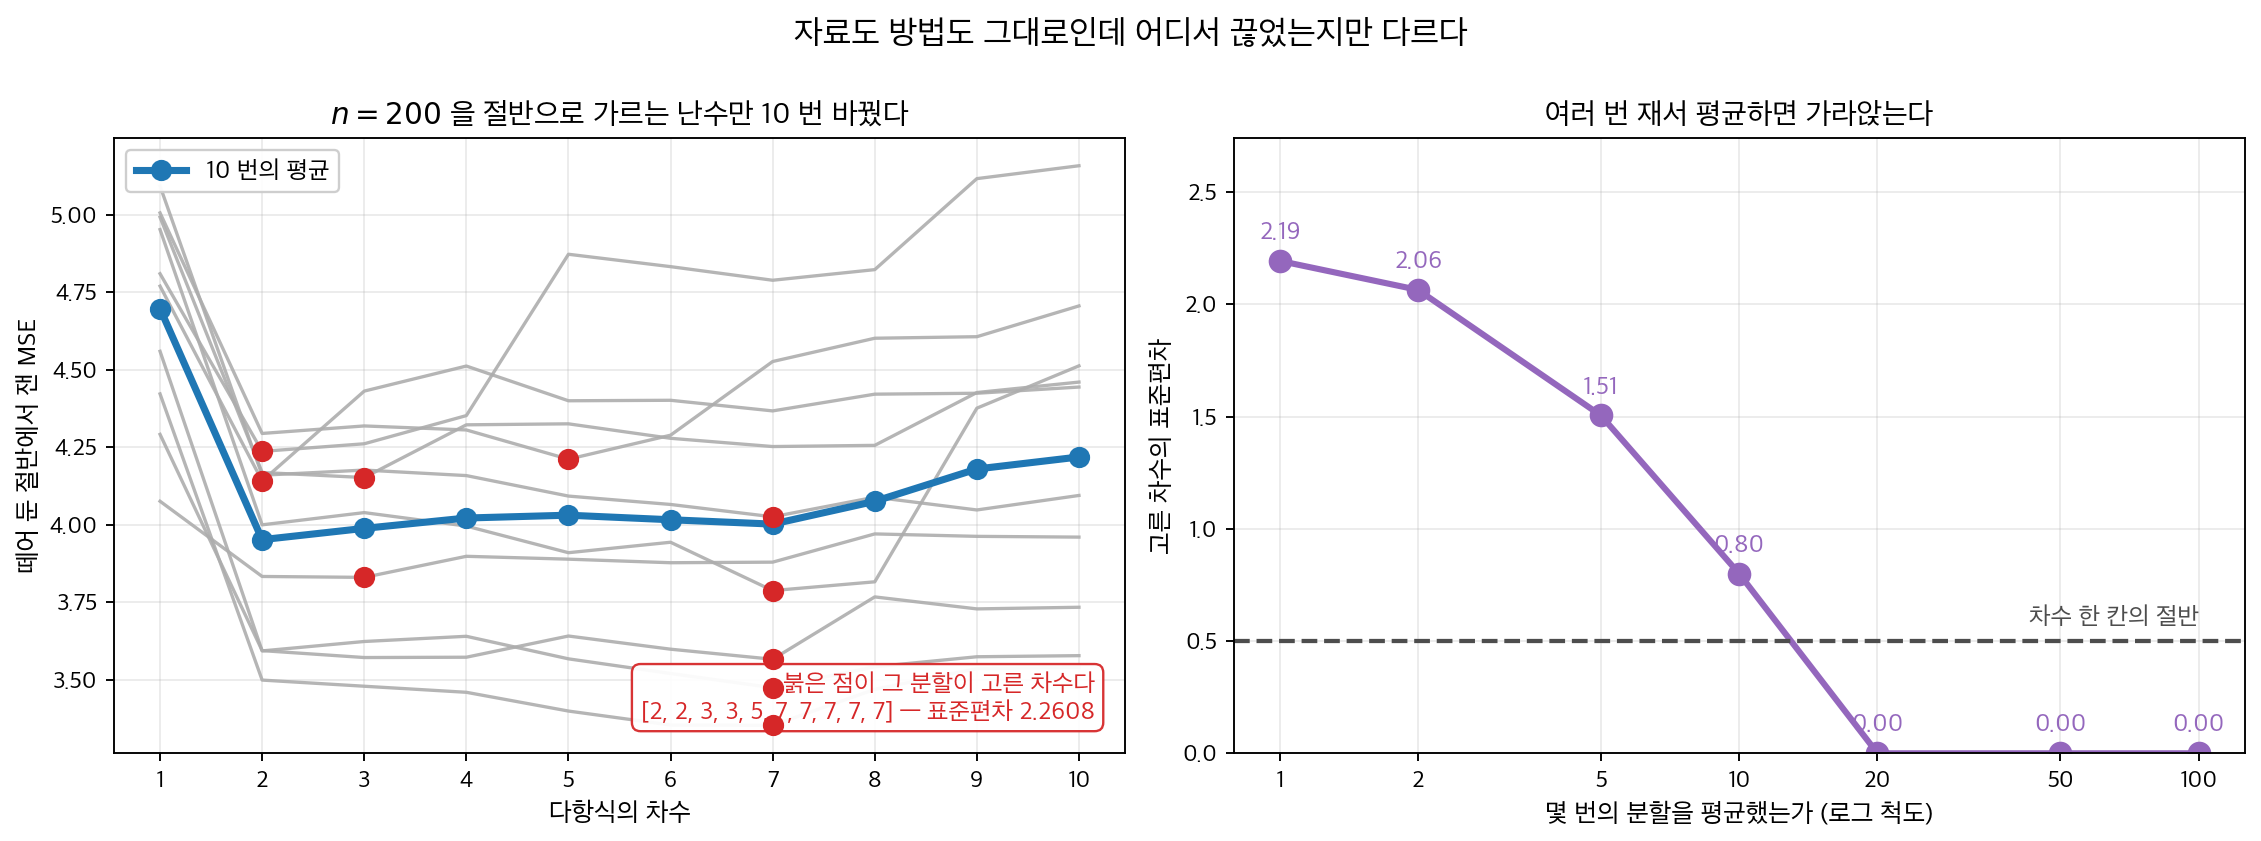
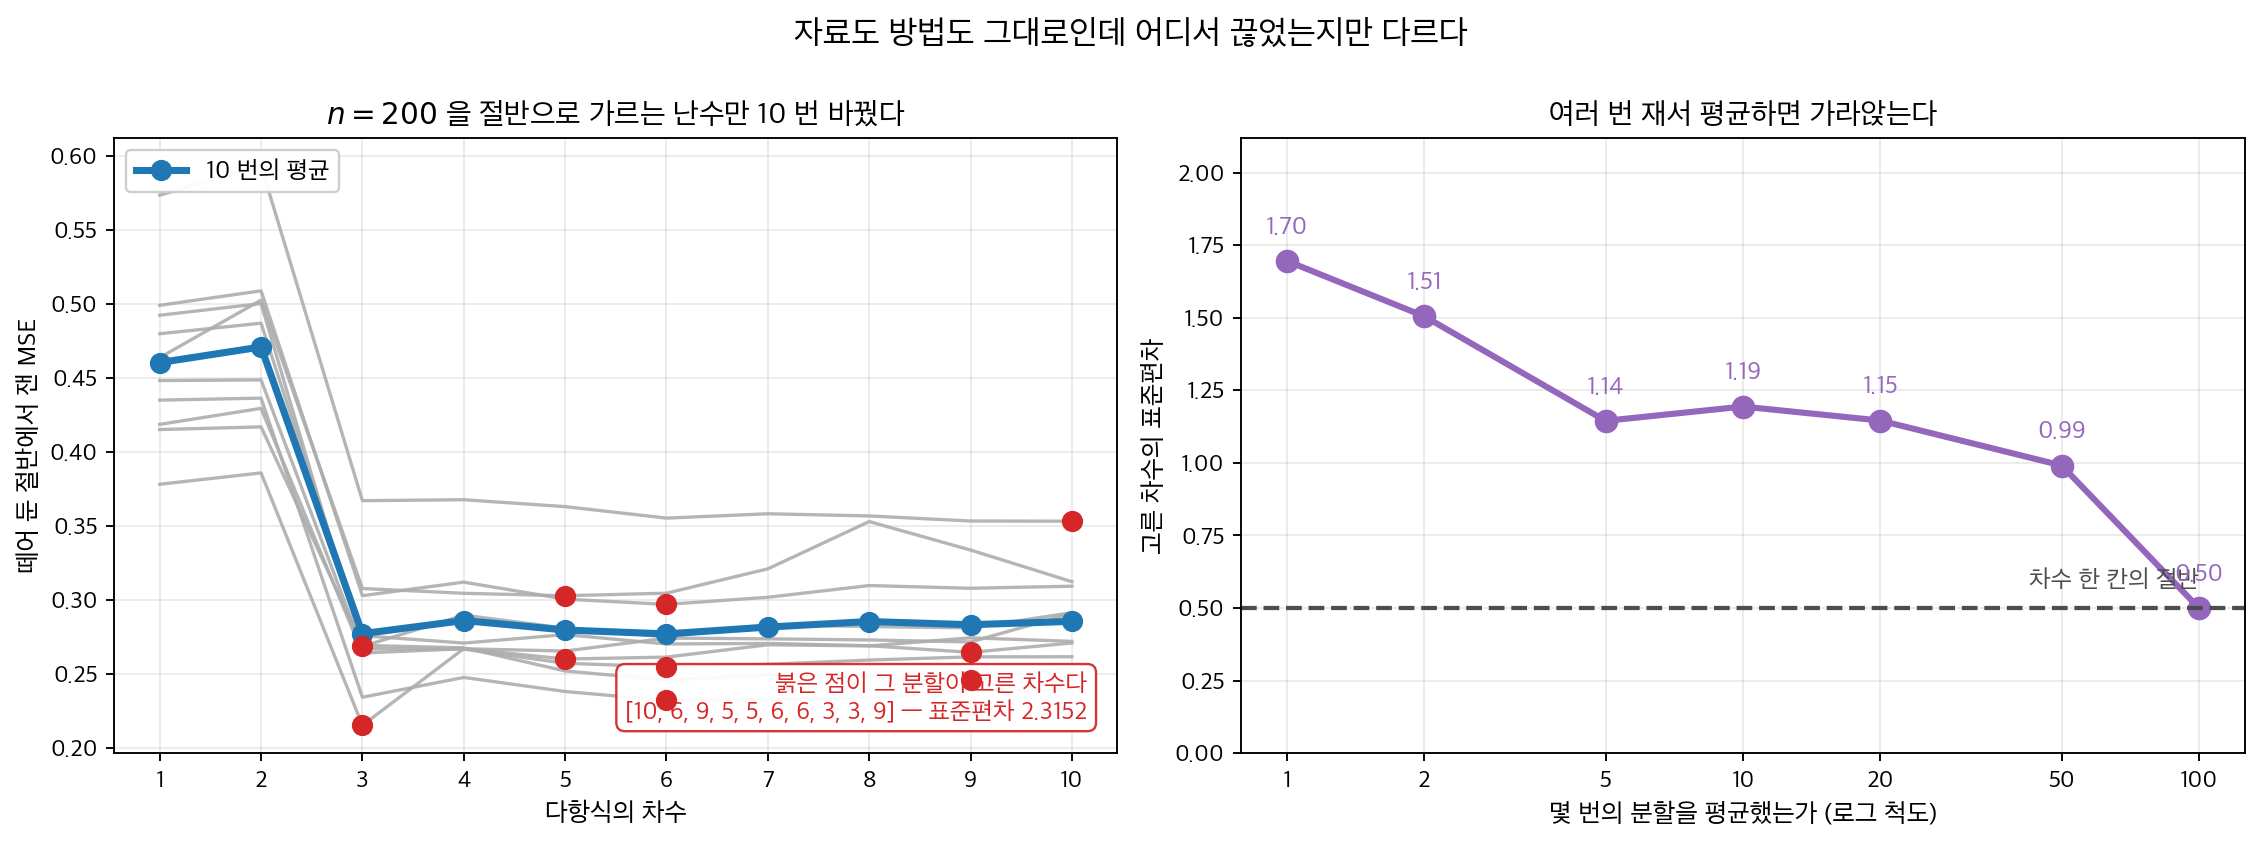
docs(ch12): 쪽과 다른 자료로 그려져 있던 그림 셋
CLAUDE.md 의 「수는 쪽의 것과 맞춘다 — 그 보기의 자료를 그대로 다시
돌려 출력과 소수 자리까지 맞춘다」를 셋에 적용했다. 셋 다 그림은
혼자 멀쩡해 보이고 빌드도 검사기도 할 말이 없는 자리다.

**AIC 들머리는 k 를 잘못 세고 있었다.** 스크립트가 후보의 둘째 칸
(설명변수 수 p)을 그대로 k 로 넘겨 45.8 / 35.4 / 38.5 를 그렸는데,
같은 쪽 7 절 표는 k = p + 2 로 49.8 / 39.4 / 42.5 다(절편과 sigma^2
까지 센다). B 와 C 의 차이 3.14 는 상수항이라 영향이 없어서 「차이만
뜻이 있다」는 요지는 살아 있었고, 그래서 더 오래 숨었다. 그림설명의
45.8 -> 276.0 -> -184.5 도 49.8 -> 280.0 -> -180.5 로 고쳤다.

**교차검증 들머리는 아예 다른 자료생성과정이었다.** 쪽은
sin(x) + 0.3x + N(0, 0.5^2) 인데 그림은 5 + 2x - 0.3x^2 + N(0, 2^2) 를
썼다(MSE 가 3.5~5 대 0.26~0.46 으로 자릿수가 달랐다). 쪽의 보기 3 과
같은 자료·같은 난수 흐름으로 맞췄더니 고른 차수가
[10, 6, 9, 5, 5, 6, 6, 3, 3, 9] 로 본문이 적은 목록과 **정확히** 같아졌다.
표준편차도 ddof 를 쪽과 맞춰 2.3152 로 떨어졌다. 그 과정에서 배운 것 —
x 를 정렬하면 자료는 같아도 idx[:n//2] 가 다른 점을 고르므로 분할이
달라진다.

**다항 교차검증 그림은 쪽이 「깨졌다」고 한 식을 쓰고 있었다.**
오른쪽 칸의 LOOCV 를 원시 단항기저에 지름길 식으로 셈해, 차수 10 에서
3.78 로 **내려갔다** — 보기 2 가 「과적합이 심해지는데 LOOCV 가 내려갈
수는 없다」며 바로 그것을 반례로 드는 값이다. 같은 사영을 QR 의 Q 로
얻게 바꾸니 단조로 올라 4.13 이 되어 쪽의 표 4.1443 과 맞는다. 왼쪽
칸도 반분할이 아니라 보기 1 과 같은 20% 홀드아웃으로 바꾸고 난수
흐름까지 맞췄더니 고른 차수의 빈도가 {2:5, 3:6, 5:2, 6:2, 8:2, 9:3} 로
보기 1 의 출력과 글자까지 같아졌다. 본문의 「반으로 나누어」와
「1.5 배 차이」도 실제 값(2.20 배)으로 고쳤다.

검사 전부 0, mkdocs build --strict 통과. 그림 셋을 눈으로 확인했다.

diff --git a/scripts/make_ch11_leadbox_figures_e.py b/scripts/make_ch11_leadbox_figures_e.py
@@ -151,8 +151,9 @@ def fig_only_differences_matter():
     SCALES = [(1.0, "그대로"), (10.0, "단위를 $10$ 배로"),
               (0.1, "단위를 $1/10$ 로")]
 
-    def aic(rss, k):
-        return n * np.log(rss / n) + 2 * k
+    def aic(rss, p_):
+        # 쪽의 7 절 표와 같은 규약 — k 는 절편과 sigma^2 까지 세므로 k = p + 2 다
+        return n * np.log(rss / n) + 2 * (p_ + 2)
 
     fig, (ax1, ax2) = plt.subplots(1, 2, figsize=(13.4, 4.9))
 
@@ -292,12 +293,12 @@ def fig_ruler_wobbles_more():
     """
     n, DEG = 200, np.arange(1, 11)
     SPLITS = 10
-    rng = np.random.default_rng(7)      # 분할에 따라 답이 크게 갈리는 자료
+    # 쪽의 보기 1 과 **같은 자료**를 쓴다 (generate_data(n=200, seed=42)).
+    rng = np.random.default_rng(42)
     x = rng.uniform(-3, 3, n)
-    y = 5 + 2 * x - 0.3 * x ** 2 + rng.normal(0, 2, n)
+    y = np.sin(x) + 0.3 * x + rng.normal(0, 0.5, n)
 
-    def holdout(seed):
-        g = np.random.default_rng(seed)
+    def holdout(g):
         idx = g.permutation(n)
         tr, te = idx[:n // 2], idx[n // 2:]
         out = []
@@ -306,11 +307,14 @@ def fig_ruler_wobbles_more():
             out.append(np.mean((y[te] - np.polyval(c, x[te])) ** 2))
         return np.array(out)
 
-    curves = np.array([holdout(s) for s in range(SPLITS)])
+    # 쪽의 보기 3 과 **같은 난수 흐름** — 씨앗 하나에서 열 번 뽑는다
+    g10 = np.random.default_rng(7)
+    curves = np.array([holdout(g10) for _ in range(SPLITS)])
     picked = DEG[curves.argmin(axis=1)]
 
     MANY = 400
-    all_curves = np.array([holdout(1000 + s) for s in range(MANY)])
+    gm = np.random.default_rng(1000)
+    all_curves = np.array([holdout(gm) for _ in range(MANY)])
     reps = [1, 2, 5, 10, 20, 50, 100]
     sd_pick = []
     for m in reps:
@@ -334,8 +338,8 @@ def fig_ruler_wobbles_more():
     ax1.legend(fontsize=10.5, loc="upper left", framealpha=0.95)
     ax1.grid(alpha=0.25)
     ax1.text(0.97, 0.05, f"붉은 점이 그 분할이 고른 차수다\n"
-             f"{sorted(picked.tolist())} — 표준편차 "
-             f"{np.std(picked, ddof=1):.4f}", transform=ax1.transAxes,
+             f"{picked.tolist()} — 표준편차 "
+             f"{picked.std():.4f}", transform=ax1.transAxes,
              ha="right", va="bottom", fontsize=10.5, fontweight="bold",
              color="tab:red",
              bbox=dict(boxstyle="round,pad=0.35", facecolor="white",
@@ -364,7 +368,7 @@ def fig_ruler_wobbles_more():
 
     print(f"\n[교차검증] n = {n} · 분할 {SPLITS} 번")
     print(f"  고른 차수 {picked.tolist()} · 표준편차 "
-          f"{np.std(picked, ddof=1):.4f}")
+          f"{picked.std():.4f}")
     for m, v in zip(reps, sd_pick):
         print(f"  {m:>4d} 번 평균  고른 차수의 표준편차 {v:.4f}")
 

diff --git a/scripts/make_ch11_selection_figures.py b/scripts/make_ch11_selection_figures.py
@@ -379,11 +379,13 @@ def fig_cv_methods():
     def design(v, d):
         return np.vander(v, d + 1, increasing=True)
 
-    rng = np.random.default_rng(0)
     val = np.zeros((20, len(degs)))
     for r in range(20):
-        idx = rng.permutation(n)
-        tr, te = idx[:n // 2], idx[n // 2:]
+        # 쪽의 보기 1 과 **같은 난수 흐름·같은 프로토콜** — 자료를 만든 뒤
+        # 이어지는 전역 난수에서 20% 홀드아웃을 20 번 뽑는다
+        idx = np.random.permutation(n)
+        k = int(0.2 * n)
+        tr, te = idx[:-k], idx[-k:]
         for j, d in enumerate(degs):
             A = design(x[tr], d)
             b = np.linalg.lstsq(A, y[tr], rcond=None)[0]
@@ -392,12 +394,15 @@ def fig_cv_methods():
     loo, kf = [], []
     for d in degs:
         A = design(x, d)
-        H = A @ np.linalg.pinv(A.T @ A) @ A.T
+        # 원시 단항기저로 H = A (A'A)^-1 A' 를 세우면 차수가 높을 때 조건수가
+        # 터져 LOOCV 가 훈련오차 쪽으로 끌려 내려간다(쪽의 보기 2 가 그것을
+        # 보인다). QR 의 Q 를 쓰면 같은 사영을 수치적으로 안정하게 얻는다.
+        Q = np.linalg.qr(A, mode="reduced")[0]
         b = np.linalg.lstsq(A, y, rcond=None)[0]
         e = y - A @ b
-        h = np.diag(H)
+        h = (Q ** 2).sum(axis=1)
         loo.append(((e / (1 - h)) ** 2).mean())
-        folds = np.array_split(rng.permutation(n), 10)
+        folds = np.array_split(np.random.default_rng(0).permutation(n), 10)
         sc = []
         for f in folds:
             mk = np.ones(n, bool)

diff --git a/docs/ch12/model_selection/cv_polynomial_model_selection.md b/docs/ch12/model_selection/cv_polynomial_model_selection.md
@@ -438,9 +438,9 @@ $$
 
 ![한 번 나누기의 변동과 교차검증의 안정성](./img/cv_method_comparison.png)
 
-세 보기의 결과를 나란히 놓으면 이렇게 된다. 왼쪽은 보기 1이다. 같은 자료를 $20$번 다르게 반으로 나누어 얻은 검증 MSE 곡선을 회색으로 겹쳐 그렸다. 곡선들이 위아래로 크게 벌어진다. 차수 $2$에서만 보아도 MSE가 $3.34$에서 $4.94$까지 흩어져 최솟값과 최댓값이 $1.5$배 차이 난다. 결과적으로 **어떤 차수를 고르느냐도 제각각이다.** $20$번 가운데 차수 $3$을 고른 것이 $13$번, 차수 $2$가 $2$번, 차수 $4$가 $2$번, 차수 $5$가 $2$번, 차수 $6$이 $1$번이었다. 한 번만 나누어 보고 "이 자료의 최적 차수는 $6$"이라고 보고했을 수도 있는 것이다.
+세 보기의 결과를 나란히 놓으면 이렇게 된다. 왼쪽은 보기 1이다. 같은 자료에서 $20\%$ 를 떼어 내는 일을 $20$번 다르게 되풀이해 얻은 검증 MSE 곡선을 회색으로 겹쳐 그렸다 — 보기 1 의 코드와 **같은 난수 흐름**이라 고른 차수의 빈도가 그 출력과 그대로 같다. 곡선들이 위아래로 크게 벌어진다. 차수 $2$에서만 보아도 MSE가 $2.5677$에서 $5.6572$까지 흩어져 최솟값과 최댓값이 $2.20$배 차이 난다. 결과적으로 **어떤 차수를 고르느냐도 제각각이다.** $20$번 가운데 차수 $3$을 고른 것이 $13$번, 차수 $2$가 $2$번, 차수 $4$가 $2$번, 차수 $5$가 $2$번, 차수 $6$이 $1$번이었다. 한 번만 나누어 보고 "이 자료의 최적 차수는 $6$"이라고 보고했을 수도 있는 것이다.
 
-오른쪽은 보기 2와 3이다. 같은 자료인데 곡선이 딱 하나씩이고 서로 거의 포개진다. LOOCV는 나누는 방식이 유일하게 정해지므로 애초에 흔들릴 여지가 없고, $10$겹은 $10$개 겹을 평균하므로 분할 운이 대부분 상쇄된다. 두 곡선 모두 차수 $1$의 $6.52$에서 차수 $2$의 $3.83$으로 **절반 가까이 떨어진 뒤 평평해진다.** 곡률을 담는 것이 결정적이고 그 이상은 얻을 것이 없다는 신호다.
+오른쪽은 보기 2와 3이다. 같은 자료인데 곡선이 딱 하나씩이고 서로 거의 포개진다(LOOCV 는 QR 로 안정하게 셈했다 — 원시 단항기저에 지름길 식을 그대로 쓰면 보기 2 가 짚듯 높은 차수에서 훈련오차 쪽으로 끌려 내려간다). LOOCV는 나누는 방식이 유일하게 정해지므로 애초에 흔들릴 여지가 없고, $10$겹은 $10$개 겹을 평균하므로 분할 운이 대부분 상쇄된다. 두 곡선 모두 차수 $1$의 $6.52$에서 차수 $2$의 $3.83$으로 **절반 가까이 떨어진 뒤 평평해진다.** 곡률을 담는 것이 결정적이고 그 이상은 얻을 것이 없다는 신호다.
 
 다만 오른쪽 곡선의 평평한 구간이 또 다른 함정이다. LOOCV의 최솟값은 형식적으로 차수 $3$($3.8123$)에 있지만 차수 $2$($3.8318$)와의 차이가 $0.5\%$에 지나지 않는다. 이 정도 차이는 자료를 한 번 더 뽑으면 뒤집힌다. **최솟값을 기계적으로 따르는 대신 1 표준오차 규칙으로 더 단순한 차수 $2$를 고르는 것이 옳은 이유**가 여기에 있다. 곡선이 평평하다는 것은 "그 구간 안에서는 어느 것을 골라도 비슷하다"는 뜻이고, 그럴 때는 언제나 단순한 쪽이 낫다.
 

diff --git a/docs/ch12/model_selection/aic.md b/docs/ch12/model_selection/aic.md
@@ -14,7 +14,7 @@
 
 <figure markdown>
 ![두 칸짜리 그림. 왼쪽은 같은 세 후보의 AIC 를 자료의 단위만 바꾸어 세 번 잰 막대로, 세 그룹이 통째로 오르내리는데 B 와 C 의 차이는 늘 3.14 다. 오른쪽은 모수 하나가 본전이 되려면 잔차제곱합을 몇 퍼센트 줄여야 하는지가 표본이 커질수록 작아지는 곡선이다](./img/only_differences_matter.png){ width="980" }
-  <figcaption markdown>**왼쪽.** 같은 세 후보에 자료의 단위만 바꿔 보았다. AIC 값은 $45.8 \to 276.0 \to -184.5$ 처럼 **통째로 오르내리는데** B 와 C 의 차이는 늘 정확히 $3.14$ 다 — 적합항 $-2.86$ 에 벌점 $+6$ 을 더한 그 수다. **값 자체에는 뜻이 없고 같은 자료 안에서의 차이에만 뜻이 있다.** **오른쪽.** 그 환율을 거꾸로 읽으면 이렇다 — 모수 하나가 본전이 되려면 잔차제곱합을 $1 - e^{-2/n}$ 만큼 줄여야 한다. $n = 50$ 이면 $3.92\%$, $n = 500$ 이면 $0.40\%$ 다. 표본이 클수록 모수 하나가 싸진다.</figcaption>
+  <figcaption markdown>**왼쪽.** 같은 세 후보에 자료의 단위만 바꿔 보았다. AIC 값은 $49.8 \to 280.0 \to -180.5$ 처럼 **통째로 오르내리는데** B 와 C 의 차이는 늘 정확히 $3.14$ 다 — 적합항 $-2.86$ 에 벌점 $+6$ 을 더한 그 수다. **값 자체에는 뜻이 없고 같은 자료 안에서의 차이에만 뜻이 있다.** **오른쪽.** 그 환율을 거꾸로 읽으면 이렇다 — 모수 하나가 본전이 되려면 잔차제곱합을 $1 - e^{-2/n}$ 만큼 줄여야 한다. $n = 50$ 이면 $3.92\%$, $n = 500$ 이면 $0.40\%$ 다. 표본이 클수록 모수 하나가 싸진다.</figcaption>
 </figure> 적합이 좋아진 몫과 모수 하나의 값을 한 척도에 올려 견주는 이 환율은 어디서 나온 수인가. 아래 상자가 그 환율로 「최선일 확률 $17\%$」 같은 수를 되짚어 본다.
 
 _확인한 곳 — 이 쪽 [「「$17\%$ 로 최선일 확률」을 되짚어 보면」](#storybox-1) 상자와 그 출처 줄_
